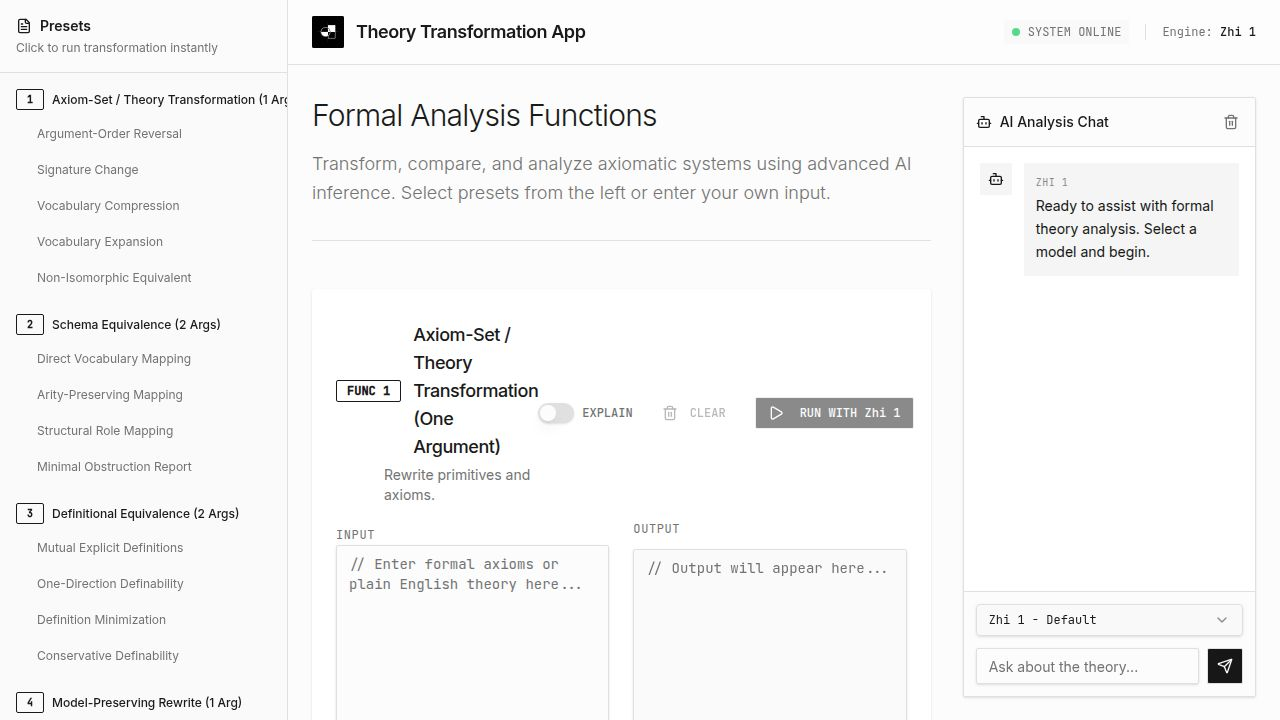
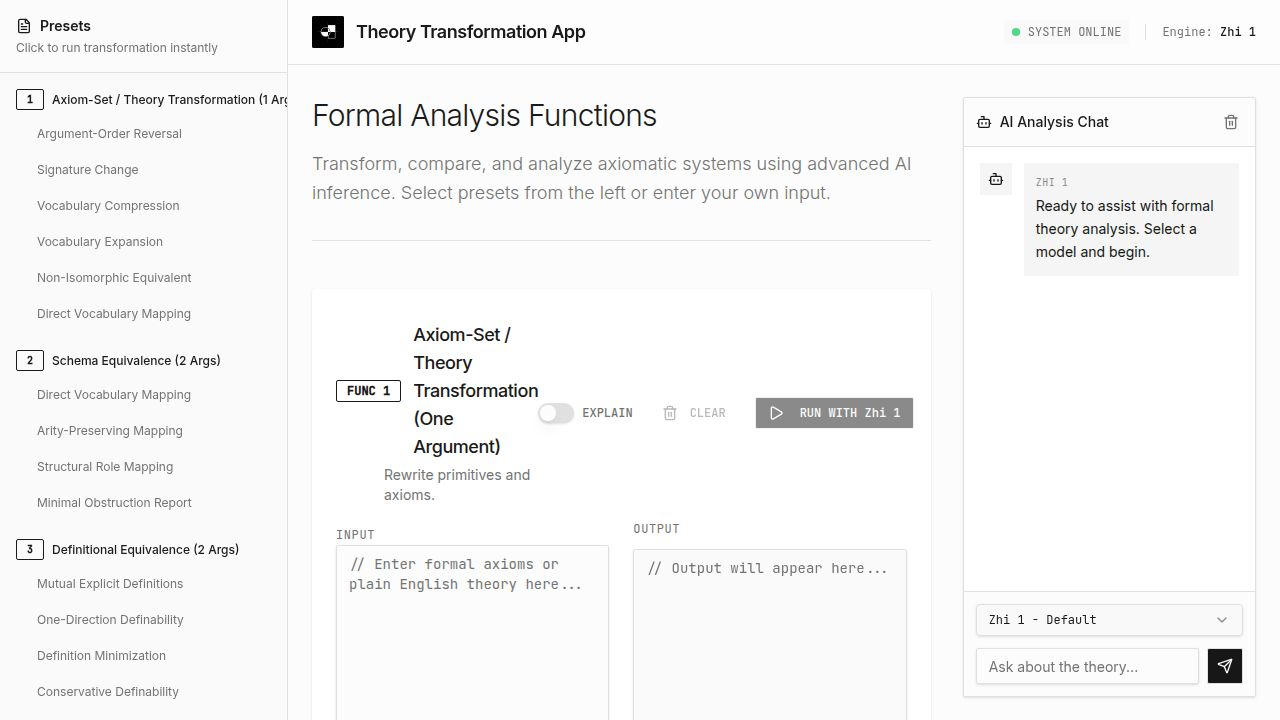
Update presets to correctly map functions and their inputs
Move "Direct Vocabulary Mapping" preset from Function 2 to Function 1 and restore original Function 2 dual-input logic.

Replit-Commit-Author: Agent
Replit-Commit-Session-Id: c00abae5-28b6-4fce-ba8a-cd70d72a6108
Replit-Commit-Checkpoint-Type: full_checkpoint
Replit-Commit-Event-Id: b572bd19-62ec-44f5-9559-633c12915ff9
Replit-Commit-Screenshot-Url: https://storage.googleapis.com/screenshot-production-us-central1/bcc16047-2de8-467e-8785-a7a65e96f6ee/c00abae5-28b6-4fce-ba8a-cd70d72a6108/LX78tKb
Replit-Helium-Checkpoint-Created: true

diff --git a/client/src/components/presets-sidebar.tsx b/client/src/components/presets-sidebar.tsx
@@ -142,11 +142,10 @@ AXIOMS:
 1. <axiom with all Pi-atoms rewritten as Hi(c,...)>
 2. ...`
   },
-  // FUNCTION 2: Schema Equivalence
   {
-    id: "f2-direct-vocab",
+    id: "f1-direct-vocab",
     name: "Direct Vocabulary Mapping",
-    functionId: 2,
+    functionId: 1,
     input: ``,
     instructions: `DIRECT VOCABULARY MAPPING - NON-ISOMORPHIC TRANSFORMATION:
 
@@ -174,6 +173,14 @@ P2(x1,...,x_n2) ↔ H2(c,x1,...,x_n2)
 AXIOMS:
 1. <original axiom 1 rewritten>
 2. ...`
+  },
+  // FUNCTION 2: Schema Equivalence
+  {
+    id: "f2-direct-vocab",
+    name: "Direct Vocabulary Mapping",
+    functionId: 2,
+    input: `<<<SEPARATOR>>>`,
+    instructions: `Build a one-to-one symbol mapping between the two theories. Match each primitive to exactly one primitive in the other theory. Report if such a mapping exists.`
   },
   {
     id: "f2-arity-preserving",
